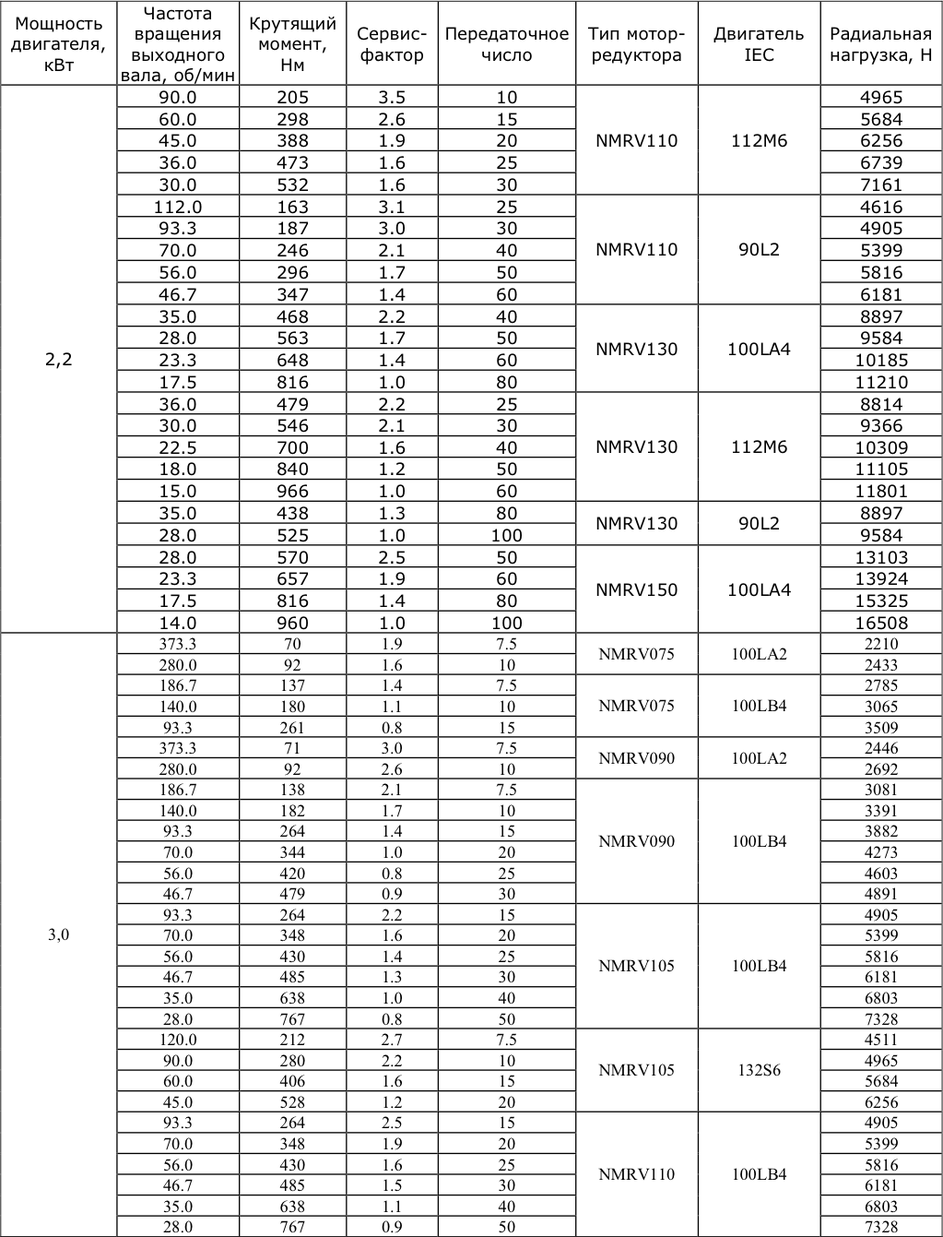
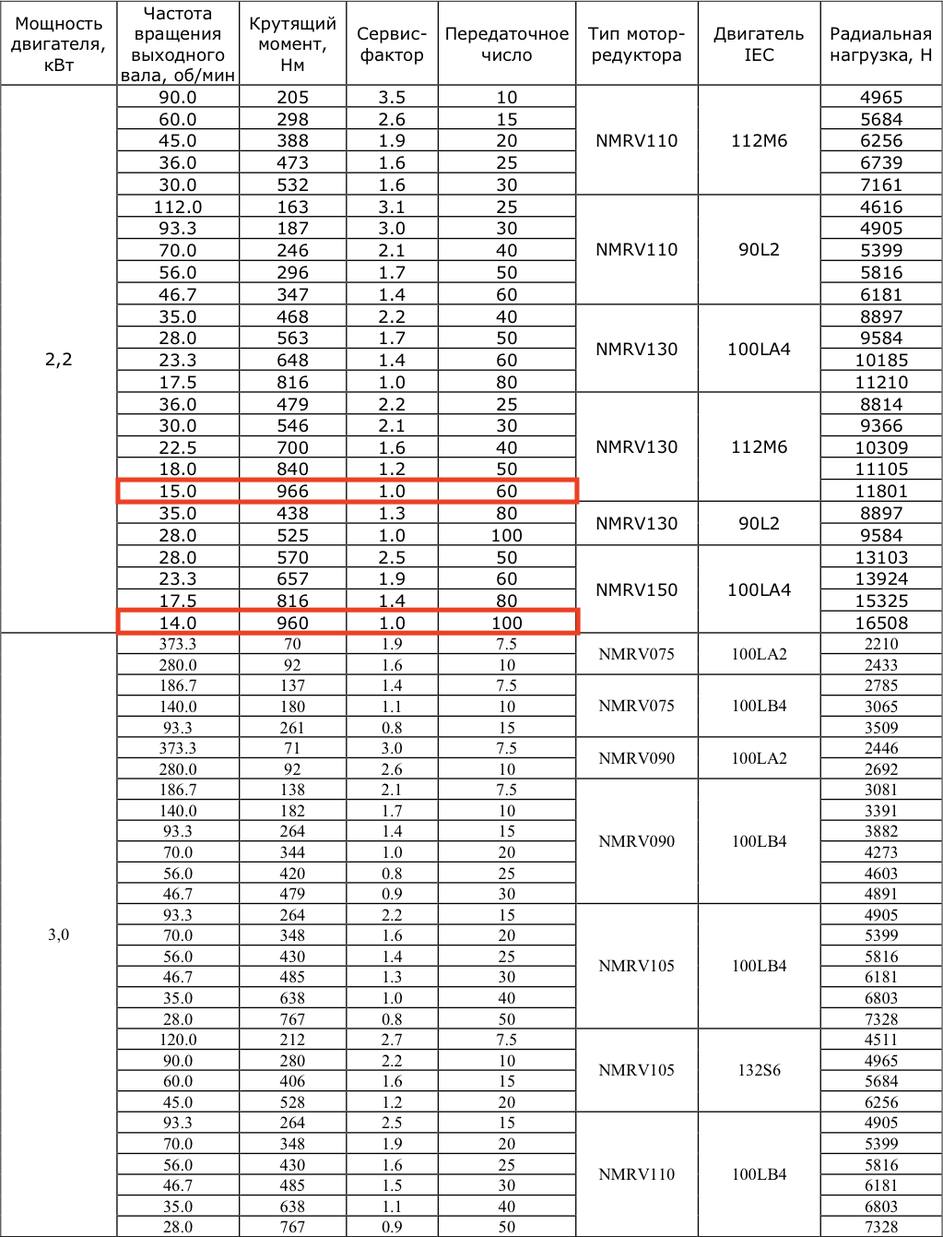
Update pages on 2020-12-06 03:45:33

Changed region(s): [[0.1212, 0.3669, 0.6061, 0.428], [0.1212, 0.4892, 0.6364, 0.5198]]

diff --git a/posts/post-23/index.html b/posts/post-23/index.html
@@ -25,7 +25,7 @@
 <meta itemprop="description" content="Начало постройки собственного шреддера для пластика. Выбор мотор-редуктора.">
 <meta itemprop="datePublished" content="2020-11-30T21:00:00&#43;04:00" />
 <meta itemprop="dateModified" content="2020-11-30T21:00:00&#43;04:00" />
-<meta itemprop="wordCount" content="1179">
+<meta itemprop="wordCount" content="1650">
 
 
 
@@ -166,16 +166,16 @@ if (!doNotTrack) {
 <h2 id="определение-ограничений-и-выбор-комплектующих">Определение ограничений и выбор комплектующих</h2>
 <p>Корову нужно есть по-частям, поэтому разделим процесс по созданию шреддера на 4 части:</p>
 <ol>
-<li>Выбор и приобретение мотор-редуктора;</li>
-<li>Лазерная резка металла;</li>
-<li>Точение осей на токарном станке;</li>
-<li>Сварка рамы и других частей.</li>
+<li>Выбор и приобретение мотор-редуктора и частотного преобразователя;</li>
+<li>Лазерная резка металла и закупка железа;</li>
+<li>Точение осей на токарном станке и поиск шестерней, муфт, подшипников;</li>
+<li>Сварка рамы и других частей, общая сборка.</li>
 </ol>
 <h3 id="мотор-редуктор">Мотор-редуктор</h3>
 <blockquote>
 <p>Изначально я думал уложиться в 5-7 тыс. рублей за мотор-редуктор, но с изучением темы немного расстроился.</p>
 </blockquote>
-<p>Выбор мотор-редуктора первая часть с которой я начну, тк это дорогой узел, который нужно выбрать и приобрести очень внимательно. На изображении выше отсуствует именование мотора или редуктора, есть лишь некоторые характеристики (и нет пояснения, почему так, а не иначе). Более того эта информация отсуствует также и в документации. Попробуем разобраться.</p>
+<p>Выбор мотор-редуктора первая часть с которой я начну, тк это дорогой узел, который нужно выбрать очень внимательно. На изображении выше отсуствует именование мотора или редуктора, есть лишь некоторые характеристики (и нет пояснения, почему так, а не иначе). Более того эта информация отсуствует также и в документации. Попробуем разобраться.</p>
 <blockquote>
 <p>На видео по сборке шреддера pro-версии нашел момент, где была видна табличка на моторе</p>
 <p><img src="./images/motor-3.png" alt="image"></p>
@@ -195,7 +195,7 @@ if (!doNotTrack) {
 <p>Подробную информацию можно найти в <a href="./images/nmrv.pdf">этом pdf документе</a>.</p>
 </blockquote>
 <h4 id="стандарт-электродвигателей">Стандарт электродвигателей</h4>
-<p>Каждый типо-размер редуктора имеет совместимость с креплениями электродвигателя по классификации <code>IEC</code> – <code>высота оси вращения</code>, <code>установочный размер по длине станины</code>, <code>число полюсов</code>.</p>
+<p>Каждый типо-размер редуктора имеет совместимость с креплениями электродвигателя по классификации <code>IEC</code>.</p>
 <p><img src="./images/rasshifrovka_markirovki.png" alt="image"></p>
 <p><img src="./images/montag-2.jpg" alt="image"></p>
 <blockquote>
@@ -213,30 +213,19 @@ if (!doNotTrack) {
 <li><a href="https://volna.by/product/elektrodvigateli/elektrodvigateli-air/air100l4/">volna.by</a>.</li>
 </ol>
 <p>Также из материалов с сайта <a href="http://egm-energo.ru/produktsiya/elektrodvigateli/elektrodvigateli_air">egm-energo.ru</a> я подготовил <a href="./air-table.html">сводную таблицу</a> мощностей и частот для двигателей серии <code>АИР</code>.</p>
-<p>Теперь когда есть полный список моделей редукторов и двигателей нужно определить требуемые:</p>
+<h4 id="характеристики-мотор-редуктора">Характеристики мотор-редуктора</h4>
+<p>Теперь когда есть полный список моделей редукторов и двигателей нужно определить требуемые характеристики (именно эти характеристики являются основными в выборе агрегата):</p>
 <ol>
-<li>Частоту вращения мотор-редуктора;</li>
-<li>Мощность электромотора;</li>
-<li>Момент силы мотор-редуктора;</li>
+<li><strong>Частота вращения вала</strong> (складывается из номинальной частоты вращения электродвигателя и передаточного числа редуктора);</li>
+<li><strong>Крутящий момент</strong> (<a href="https://ru.wikipedia.org/wiki/%D0%9C%D0%BE%D0%BC%D0%B5%D0%BD%D1%82_%D1%81%D0%B8%D0%BB%D1%8B">момент силы</a>). Чем выше скорость электродвигателя и больше передаточное числа, тем выше крутящий момент.</li>
 </ol>
-<p>Эти три параметра взаимосвязаны. Например невозможно повысить момент силы без увеличения мощности двигателя.</p>
 <p>Отдельно вынесу вопрос питания электродвигателя.</p>
-<h4 id="частота-вращения-мотор-редуктора">Частота вращения мотор-редуктора</h4>
-<p>Следующим ограничением, нужно определить выходную частоту вращения агрегата со страницы подробного описания шреддера, она равна 15-25 об/мин.</p>
+<p>И так рассмотрим информацию на сайте Precious Plastic:</p>
 <p><img src="./images/shredder-pro-2.png" alt="image"></p>
-<p>Хотя странно тк для простой версии это частота намного выше, ощущение что рябата пишут +/- наобум. И вообще данные не всегда бьются.</p>
+<p>Со страницы подробного описания шреддера (версия Pro), она равна 15-25 об/мин. Хотя странно тк для простой версии это частота намного выше.</p>
 <p><img src="./images/shredder-simple-2.png" alt="image"></p>
-<p>Выходная частота складывается из номинальной частоты вращения электродвигателя и передаточного числа редуктора.
-Открытым остается вопрос питания двигателя меньшим напряжение, возможность использования ШИМ для изменения скорости.</p>
-<h4 id="мощность-электромотора">Мощность электромотора</h4>
-<p>Мощность электромотора органичена в характеристиках шреддера двумя значениями:</p>
-<ol>
-<li>Минимальная мощность 2.2 кВт;</li>
-<li>Рекомендуемая мощность 3-4 кВт.</li>
-</ol>
-<p>Не очевидно можно ли использовать более мощные решение, например 5.5 кВт или 7.5 кВт, которые распространены на вторичном рынке в составе сборных мотор-редукторов. Или это мб вредно для конструкции или редуктора.</p>
-<h4 id="момент-силы-мотор-редуктора">Момент силы мотор-редуктора</h4>
-<p>Выходной момент силы ограничен от 1000 Нм до 3000 Нм. Тоже не понятно, что если получаемый момент силы будет меньше.</p>
+<p>Чтобы составить своё мнение на счет частоты вращения, я нашел <a href="https://youtu.be/z5svXsRBFIM?t=1660">следующее видео</a> подобного шреддера в котором на мой взгляд очень большая частота вращения. Подсчитав время одного оборота (3c) на замедленном воспроизведении получается 80 об/мин. Я понял, что скорость как минимум должна быть в 4 раза ниже, что в принципе соответствует скорости у ребят из Precious Plastic. Поэтому я принял решение добавить условие 15-25 об/мин.</p>
+<p>Выходной момент силы в таблице с характеристиками ограничен от 1000 Нм до 3000 Нм. Не совсем очевидно почему именно такой (видимо они это попробовали эксперементально) и почему он не может быть больше. Но примем за данность и рассмотрим некоторые источники с тестами конфигураций мотор-редукторов и получаемыми крутящими моментами.</p>
 <p>В <a href="./images/nmrv.pdf">справочнике компании технопривод</a>, что я также приводил выше, содержится следующая информацию по мотор-редукторам:</p>
 <p><img src="./images/motor-5.png" alt="image"></p>
 <p><img src="./images/motor-6.png" alt="image"></p>
@@ -249,22 +238,60 @@ if (!doNotTrack) {
 </ul>
 <p>Подробнее <a href="https://reductor58.ru/library/servis-faktor-motor-reduktora">здесь</a>.</p>
 </blockquote>
-<h4 id="питания-электродвигателя">Питания электродвигателя</h4>
-<p>Тут лишь нужно сказать, что конечно питать от однофазной сети в 220 вольт предподчтительней. Однако как я заметил все подобные двигатели приспособлены на работу от трёхфазной сети в 380 вольт. Поэтому нужно соорудить преобразователь.</p>
-<p>На сколько я понял на данный момент, если начальная нагрузка на мотор велика конденсаторная схема не сработает. Также нашел еще вариант питания от другого трехфазного мотора по <a href="http://cm001.narod.ru/new_index/publik/generator.html">этой статье</a>.</p>
-<p>Также не стоит забывать что офисная проводка, где я планирую размещать аппарат мб не рассчитана на большие токи.</p>
-<h4 id="покупка-мотор-редуктора">Покупка мотор-редуктора</h4>
-<p>На авито я не нашел частников, продающих редуктор NMRV без мотора. Все такие предложения представлены только от компаний, новыми и по цене новых. Поэтому покупка мотор-редуктора по отдельности под вопросом.</p>
-<p>Вот пока несколько предложений, что мне показались интересными.</p>
+<p>Красным я отметил более менее подходящие под выбранные характеристики агрегаты (без учета сервис-фактора). Кстати интересно, но для большинства агрегатов с крутящим моментом &gt; 1000Нм и сервис-фактором с запасом, мощность моторов больше 4кВт.</p>
+<blockquote>
+<p>Странно, но как мне кажется в таблице есть ошибка тк в серии АИР, 132S4 – это 7.5 кВт двигатель, а не 5.5 кВт (хотя мб это просто другая серия).<br>
+Также подобные параметры можно найти здесь:</p>
 <ul>
-<li><a href="https://www.avito.ru/saransk/remont_i_stroitelstvo/chervyachnyy_motor-reduktor_nmrv_150110_1978323451">avito Саранск</a> (NMRV 110, NMRV 150)</li>
-<li><a href="https://www.avito.ru/tolyatti/remont_i_stroitelstvo/elektrodvigatel_2047340692">avito Тольятти</a> (только мотор)</li>
-<li><a href="https://www.avito.ru/samara/remont_i_stroitelstvo/dvigatel_asinhronnyy_2016115401">avito Самара</a> (только мотор)</li>
-<li><a href="https://www.avito.ru/ekaterinburg/oborudovanie_dlya_biznesa/reduktor_nmrv_150_1857775680">avito Екатеринбург</a> (NMRV 130, NMRV 150)</li>
+<li><a href="https://tpk36.ru/p346945559-motor-reduktor-chervyachnyj.html">tpk36.ru</a>;</li>
+<li><a href="http://www.motor789.com/download/160129093547_3bb90ea21a9.pdf">motor789.com</a>;</li>
+<li><a href="https://tehprivod.su/katalog/motor-reduktory/chervyachnye-motor-reduktory/chervyachnye-motor-reduktory-nmrv/150.html">tehprivod.su</a>.</li>
 </ul>
-<h2 id="послесловие">Послесловие</h2>
-<p>На данный момент остались открытыми вопросы, что я поднял выше. Для их решения я написал Дейву, а также попросил помощи разробраться у друга. Как только я получу ответы, я обновлю эту статью.</p>
-<p>Позже я наткнулся на <a href="https://youtu.be/z5svXsRBFIM?t=1660">следующее видео</a> в котором на мой взгляд очень большая частота вращения. Подсчитав время одного оборота (3c) на замедленном воспроизведении получается 80 об/мин. Я понял, что скорость как минимум должна быть раза в 4 ниже, что в принципе соответствует верхней границы у ребят из Precious Plastic. Поэтому я принял решение добавить условие 15-25 об/мин.</p>
+</blockquote>
+<h4 id="покупка-мотор-редуктора">Покупка мотор-редуктора</h4>
+<p>Я провел поиск <code>NMRV130</code> и <code>NMRV150</code> по всей России в авито и нашел несколько объявлений подавляющее число которых представлены компаниями по цене новых, что выходит из моего бюджета. Всего пару продавцов-частников продают б/у редукторы:</p>
+<ol>
+<li>
+<p><strong>NMRV150-50 + АИР132S4</strong></p>
+<p><img src="./images/avito-2.png" alt="image"></p>
+</li>
+<li>
+<p><strong>NMRV150-20</strong></p>
+<p><img src="./images/avito-3.png" alt="image"></p>
+<p>Также у второго продавца также продавался <strong>NMRV130-20</strong></p>
+</li>
+</ol>
+<p>Мотор-редуктора 2го продавца имели частоту 60 об/мин. Единственный во всей России мотор-агрегат который мне подходит был только у первого продавца, однако мой бюджет был 25 тысяч рублей максимум с доставкой. Тогда я позвонил и предложил купить этот мотор за 20 тысяч рублей. Было очень неудобно так сильно скидывать цену, но это было единственное во всей России подходящее мне решение. Цену я агрументировал, скинул ссылку на предложение второго продавца с неподходящим передаточный числом. На следующий день мне перезвонил продавец и дал своё согласие.</p>
+<p>Тут начался квест, дело в том, что агрегат находился в Мордовии в р.п. Зубова Поляна.</p>
+<p><img src="./images/map.png" alt="image"></p>
+<p>Через поселок проходят две транспортные линии: трасса М5 и железнодорожная ветка до Москвы.</p>
+<ol>
+<li>Ближайший терминал грузовой компании находился в Саранске, в 200км от поселка. Из-за этого доставка агрегата транспортной компанией до терминала в Самаре обошлась бы в 13 тысяч рублей.</li>
+<li>Я попытался договориться с РЖД. В структуре компании есть организация <code>РЖД Логистика</code>, занимающаяся перевозками небольших грузов. Удивительно, но они принимают грузы только из терминала в Саранске и предложили тоже сделать забор груза с немаленьким чеком.</li>
+<li>Билеты туда и обратно на поезде дальнего следования в ближайшие даты обошлись бы мне в 2000₽. Однако по правилам пассажирских перевозок разрешена ручная кладь в 36кг. Однако вес агрегата 150кг (80x40x40 см), и даже если бы он поместился в поезде и не возникло вопросов проводника, не понятно как бы я его физически затащил. + Ко всему нужно было бы потратить целые сутки на дорогу.</li>
+<li>Я выложил сторис в инсту с вопросом к друзьям, кто мог бы поехать на машине из Москвы в Самару, но таких не нашел.</li>
+<li>Затем я решил найти водителя в Блаблакар. После целого дня потраченного на переписку, я чудом сторговался и договорился за 2000₽ при том с доставкой в Самару до подъезда. Проблема договориться была в том, что мотор занимает очень много места, а все машины из Москвы идут груженые.</li>
+</ol>
+<p><strong>Итого: Через 3 дня после согласия продавца я получил агрегат у своего подъезда за 22 тысячи рублей 🥳.</strong></p>
+<p><img src="./images/motor-8.jpg" alt="image"></p>
+<p><img src="./images/motor-9.jpg" alt="image"></p>
+<p>Впереди меня ждал еще один квест: я полагал, что я занесу это все один к себе в офис на 4 этаж (тк мотор отсоединен от редуктора), однако я физически не смог поднять редуктор и пришлось пол 6 утра (так приехала машина) звонить другу! И даже вдвоём эта задача оказалась очень тяжелой.</p>
+<p><img src="./images/motor-10.jpg" alt="image"></p>
+<h4 id="питание-электродвигателя">Питание электродвигателя</h4>
+<p>У меня в офисе однофазная сеть, один из самых дешевых способов запитать 3-фазный мотор – использовать схему на основе конденсатора. Однако на сколько мне удалось выяснить, что если начальная нагрузка на мотор велика конденсаторная схема не сработает. Также КПД двигателя при питании с помощью кондесаторной схемы падает на 30-50%.</p>
+<p>Поэтому я начал искать на авито контроллер трехфазного двигателя (частотный преобразователь). Он имеет ряд плюсов:</p>
+<ol>
+<li>Защита по току;</li>
+<li>Настройка скорости вращения;</li>
+<li>Встроенная функция реверс вращения;</li>
+<li>Высокий КПД.</li>
+</ol>
+<p>Среди стандратных решений в промышленных форм-факторах, я нашел необычное выглядещий прибор от <a href="http://mpsr.com.ua/">компании</a> из Харькова <a href="https://www.youtube.com/watch?v=5AzqtoXvaTQ">МПСР СО-1-35</a>. Данный прибор имеет уникальную характеристику: <strong>мощность 5.5кВт при питании от однофазной сети</strong>, а также критически низкую стоимость. В последствии если мощности однофазной сети не хватит преобразователь можно подключить к трехфазной сети.</p>
+<p><img src="./images/avito-4.png" alt="image"></p>
+<p>Посмотрим удасться ли купить этот прибор за ту сумму что заявлена, у меня есть сомнения. По мере поступления новостей, обновлю эту статью.</p>
+<blockquote>
+<p>Конечно, не стоит забывать, что офисная проводка, где я планирую размещать аппарат мб не рассчитана на большие токи и нужно быть осторожным. По расчетам стандартная медная проводка 2.5 мм² выдерживает до 27 ампер или 5.9 кВт при 220 вольтах в однофазной сети переменного напряжения.</p>
+</blockquote>
 
             </div>
 
